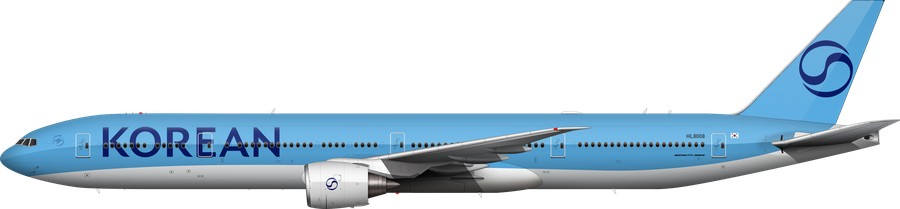
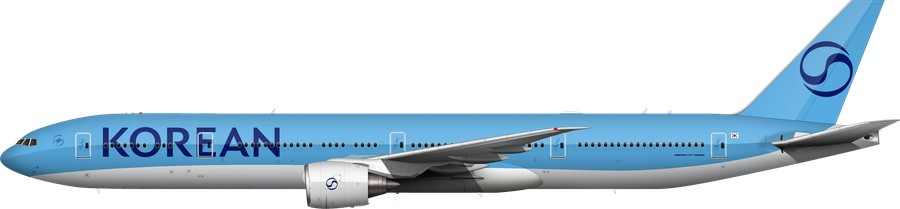
update overview

diff --git a/index.html b/index.html
@@ -229,7 +229,7 @@ button{font-family:inherit}.bar button{border:1px solid #bbb;background:#fff;bor
 <div class="card" data-key="Standard/Korean Air/Korean Air - 737-900" data-name="Korean Air 737-900" data-png="Liveries Done/Standard/Korean Air/Korean Air - 737-900/Korean Air_737-900.png" data-base="{&quot;status&quot;: &quot;完美&quot;, &quot;reason&quot;: &quot;&quot;, &quot;author&quot;: &quot;我們&quot;, &quot;note&quot;: &quot;2026-11-22 gloss v2 翻新完成（使用者「KAL全機隊完美了」）&quot;}"><img loading="lazy" src="_work/overview_thumbs900/52a2642f83db.jpg?v=1795335534"><div class="t">737-900</div><span class="b"></span><span class="m r"></span><div class="m a"></div></div>
 <div class="card" data-key="Standard/Korean Air/Korean Air - 737-900ER" data-name="Korean Air 737-900ER" data-png="Liveries Done/Standard/Korean Air/Korean Air - 737-900ER/Korean Air_737-900ER.png" data-base="{&quot;status&quot;: &quot;完美&quot;, &quot;reason&quot;: &quot;&quot;, &quot;author&quot;: &quot;我們&quot;, &quot;note&quot;: &quot;2026-11-22 gloss v2 翻新完成（使用者「KAL全機隊完美了」）&quot;}"><img loading="lazy" src="_work/overview_thumbs900/37c5b00559b9.jpg?v=1795335534"><div class="t">737-900ER</div><span class="b"></span><span class="m r"></span><div class="m a"></div></div>
 <div class="card" data-key="Standard/Korean Air/Korean Air - 747-8i" data-name="Korean Air 747-8i" data-png="Liveries Done/Standard/Korean Air/Korean Air - 747-8i/Korean Air_747-8i.png" data-base="{&quot;status&quot;: &quot;完美&quot;, &quot;reason&quot;: &quot;&quot;, &quot;author&quot;: &quot;翻新自 Martin&quot;, &quot;note&quot;: &quot;2026-11-22 gloss v2 翻新完成（使用者「KAL全機隊完美了」）&quot;}"><img loading="lazy" src="_work/overview_thumbs900/b23e95aab575.jpg?v=1795767953"><div class="t">747-8i</div><span class="b"></span><span class="m r"></span><div class="m a"></div></div>
-<div class="card" data-key="Standard/Korean Air/Korean Air - 777-300ER" data-name="Korean Air 777-300ER" data-png="Liveries Done/Standard/Korean Air/Korean Air - 777-300ER/Korean Air_777-300ER.png" data-base="{&quot;status&quot;: &quot;要處理&quot;, &quot;reason&quot;: &quot;垂尾&quot;, &quot;author&quot;: &quot;翻新自 Martin&quot;, &quot;note&quot;: &quot;2026-11-27 垂尾外緣瑕疵（前緣線、頂部黑線、根部黑塊），修正版 scratch ke_fin/777-300ER_fixed2.png 未裝&quot;}"><img loading="lazy" src="_work/overview_thumbs900/bd859bc0db06.jpg?v=1795335535"><div class="t">777-300ER</div><span class="b"></span><span class="m r"></span><div class="m a"></div></div>
+<div class="card" data-key="Standard/Korean Air/Korean Air - 777-300ER" data-name="Korean Air 777-300ER" data-png="Liveries Done/Standard/Korean Air/Korean Air - 777-300ER/Korean Air_777-300ER.png" data-base="{&quot;status&quot;: &quot;完美&quot;, &quot;reason&quot;: &quot;&quot;, &quot;author&quot;: &quot;翻新自 Martin&quot;, &quot;note&quot;: &quot;2026-11-27 在 Norebbo 模板上重做成自己的 PSD（V1，不畫註冊號），使用者「可以 裝進去吧」&quot;}"><img loading="lazy" src="_work/overview_thumbs900/bd859bc0db06.jpg?v=1795777251"><div class="t">777-300ER</div><span class="b"></span><span class="m r"></span><div class="m a"></div></div>
 <div class="card" data-key="Standard/Korean Air/Korean Air - 787-10" data-name="Korean Air 787-10" data-png="Liveries Done/Standard/Korean Air/Korean Air - 787-10/Korean Air_787-10.png" data-base="{&quot;status&quot;: &quot;完美&quot;, &quot;reason&quot;: &quot;&quot;, &quot;author&quot;: &quot;翻新自 Martin&quot;, &quot;note&quot;: &quot;2026-11-22 gloss v2 翻新完成（使用者「KAL全機隊完美了」）&quot;}"><img loading="lazy" src="_work/overview_thumbs900/3e2613eb1fdf.jpg?v=1795335535"><div class="t">787-10</div><span class="b"></span><span class="m r"></span><div class="m a"></div></div>
 <div class="card" data-key="Standard/Korean Air/Korean Air - 787-9" data-name="Korean Air 787-9" data-png="Liveries Done/Standard/Korean Air/Korean Air - 787-9/Korean Air_787-9.png" data-base="{&quot;status&quot;: &quot;完美&quot;, &quot;reason&quot;: &quot;&quot;, &quot;author&quot;: &quot;我們&quot;, &quot;note&quot;: &quot;2026-11-22 gloss v2 翻新完成（使用者「KAL全機隊完美了」）&quot;}"><img loading="lazy" src="_work/overview_thumbs900/9e6fa7852e95.jpg?v=1795360375"><div class="t">787-9</div><span class="b"></span><span class="m r"></span><div class="m a"></div></div>
 <div class="card" data-key="Standard/Korean Air/Korean Air - A330-300" data-name="Korean Air A330-300" data-png="Liveries Done/Standard/Korean Air/Korean Air - A330-300/Korean Air_A330-300.png" data-base="{&quot;status&quot;: &quot;完美&quot;, &quot;reason&quot;: &quot;&quot;, &quot;author&quot;: &quot;翻新自 Martin&quot;, &quot;note&quot;: &quot;2026-11-22 gloss v2 翻新完成（使用者「KAL全機隊完美了」）&quot;}"><img loading="lazy" src="_work/overview_thumbs900/72074efbfdf3.jpg?v=1795335535"><div class="t">A330-300</div><span class="b"></span><span class="m r"></span><div class="m a"></div></div>
